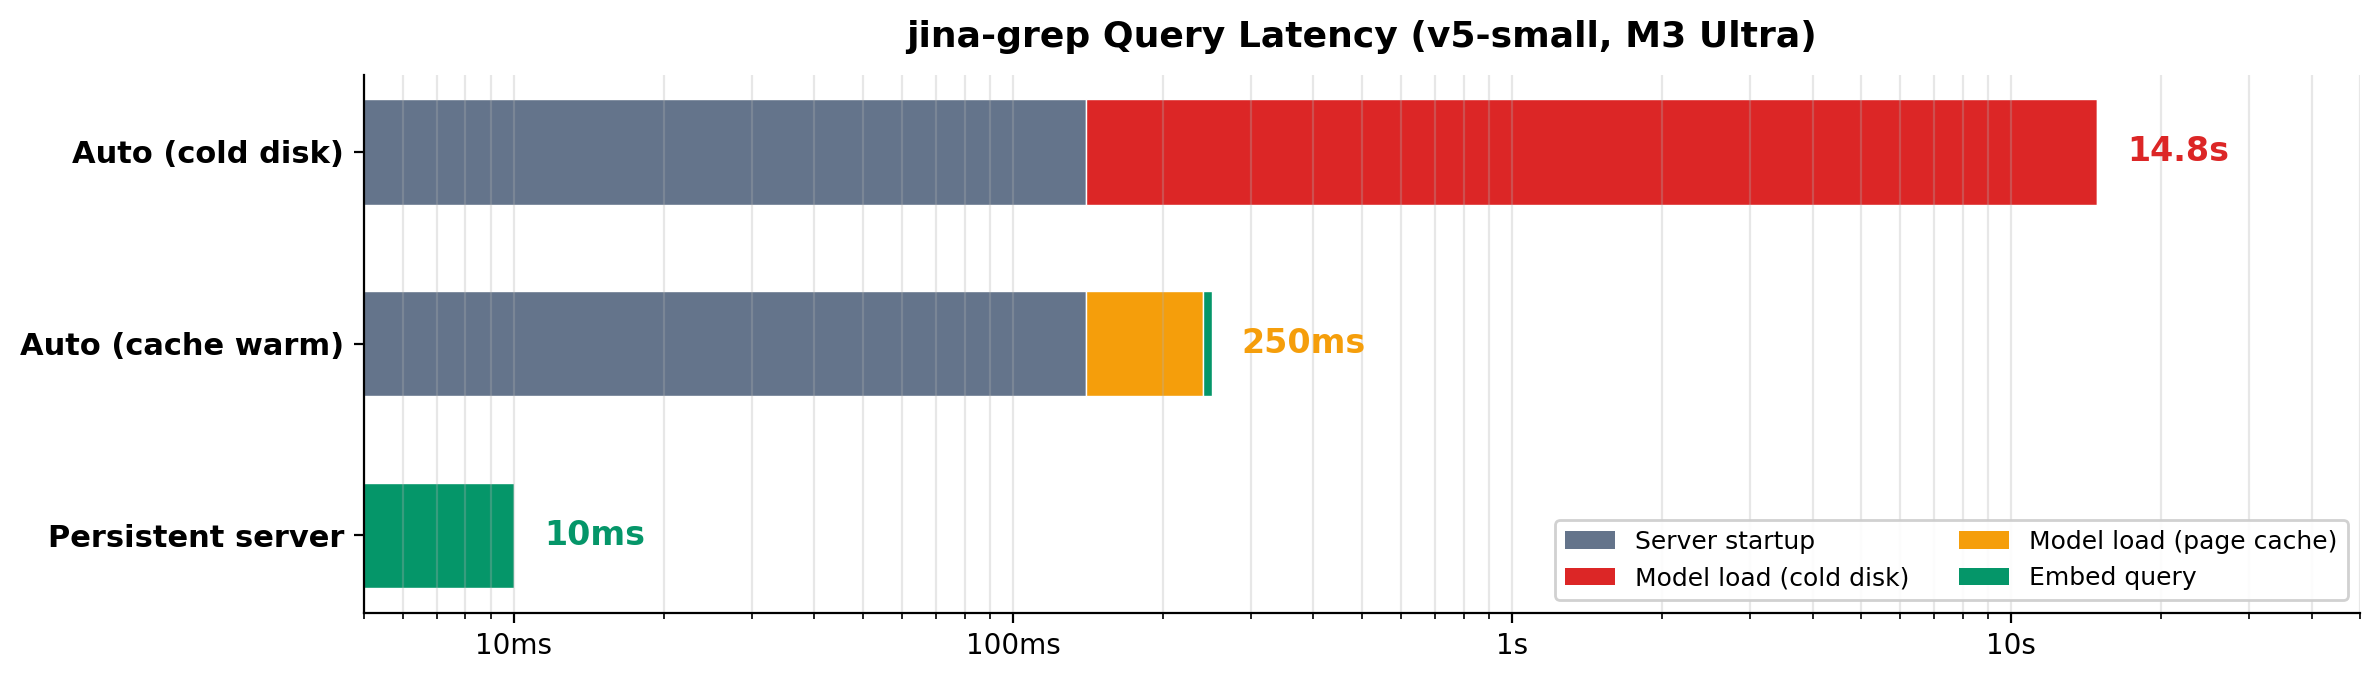
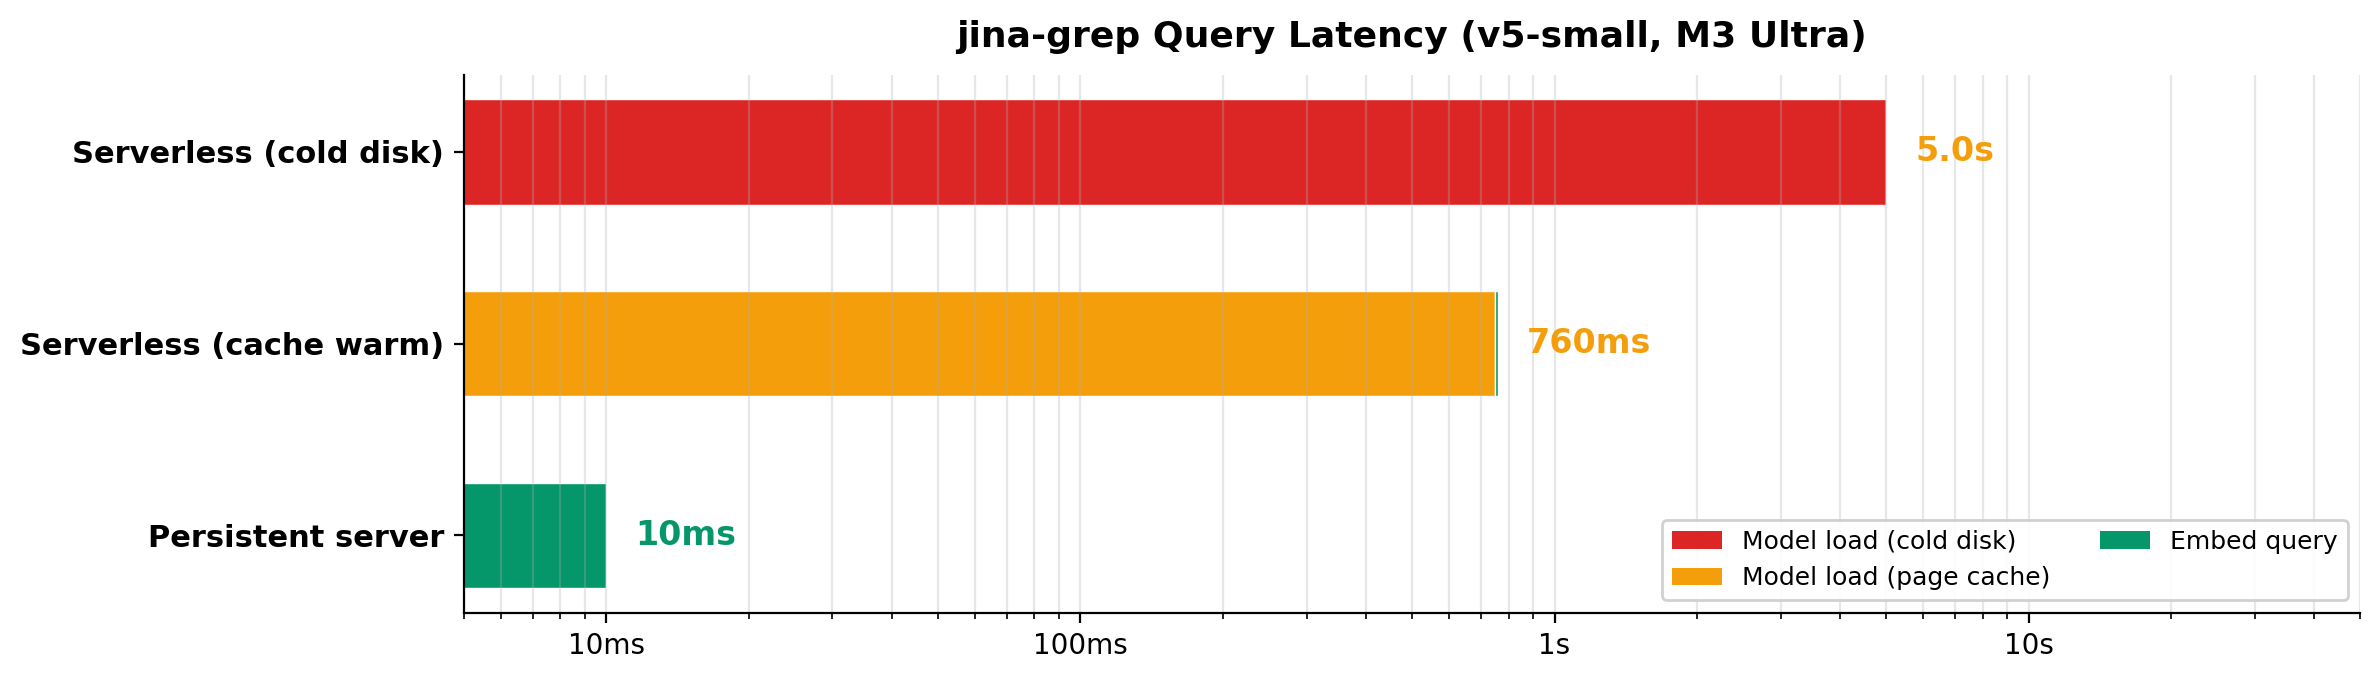
in-process serverless: remove server overhead, clean stderr, update docs

diff --git a/jina_grep/embedder.py b/jina_grep/embedder.py
@@ -1,6 +1,9 @@
 """In-process MLX embedding for serverless mode."""
 
 import os
+
+os.environ["HF_HUB_DISABLE_PROGRESS_BARS"] = "1"
+
 import sys
 from typing import Optional
 

diff --git a/README.md b/README.md
@@ -12,7 +12,7 @@ Four modes: pipe grep output for semantic reranking, search files directly with 
 | jina-code-embeddings-1.5b | 1.54B | 1536 | 32768 | 128-1536 | nl2code, code2code, code2nl, code2completion, qa |
 | jina-code-embeddings-0.5b | 0.49B | 896 | 32768 | 64-896 | nl2code, code2code, code2nl, code2completion, qa |
 
-Per-task MLX checkpoints (v5) or single checkpoint with instruction prefixes (code) loaded on demand from HuggingFace. No PyTorch, no transformers - pure MLX on Metal GPU. Server auto-batches large inputs (up to 256 per request).
+Per-task MLX checkpoints (v5) or single checkpoint with instruction prefixes (code) loaded on demand from HuggingFace. No PyTorch, no transformers - pure MLX on Metal GPU.
 
 ## Install
 
@@ -26,11 +26,11 @@ Requirements: Python 3.10+, Apple Silicon Mac.
 
 ## Usage
 
-Two server modes, both transparent to the user:
+Two modes:
 
-**Auto mode (default, aka serverless):** The embedding server starts on demand and stops after each invocation. No setup, no background processes, no memory footprint when idle. The first run downloads models from HuggingFace (~1-3GB depending on model). This works well because MLX loads weights via mmap - macOS keeps the file in page cache after the process exits, so subsequent runs reload the model in ~100ms instead of ~15s. Best for: occasional use, scripts, CI.
+**Serverless (default):** Model loads in-process, runs the query, exits. No server, no background processes. MLX loads weights via mmap, so macOS keeps them in page cache after exit - subsequent runs reload in ~100ms instead of ~15s. Best for: occasional use, scripts, CI.
 
-**Persistent mode:** Keep the server running across invocations. The model stays loaded in GPU memory - every query is a direct embed call with zero startup cost. Avoids the ~15s cold start entirely and eliminates the ~0.9s warm overhead per call. Best for: interactive sessions, rapid iteration, heavy batch workloads.
+**Persistent server:** Keep a server running across invocations. Model stays in GPU memory, every query is ~10ms. Best for: interactive sessions, batch workloads.
 
 ```bash
 jina-grep serve start   # keep running in background
@@ -38,9 +38,7 @@ jina-grep serve start   # keep running in background
 jina-grep serve stop    # stop when done
 ```
 
-Auto mode detects a running persistent server and reuses it (without stopping it afterwards).
-
-![Latency breakdown](https://raw.githubusercontent.com/jina-ai/jina-grep-cli/refs/heads/main/grep-latency-gantt.png)
+Serverless mode auto-detects a running persistent server and uses it via HTTP (without stopping it afterwards).
 
 ### Pipe mode: rerank grep output
 
